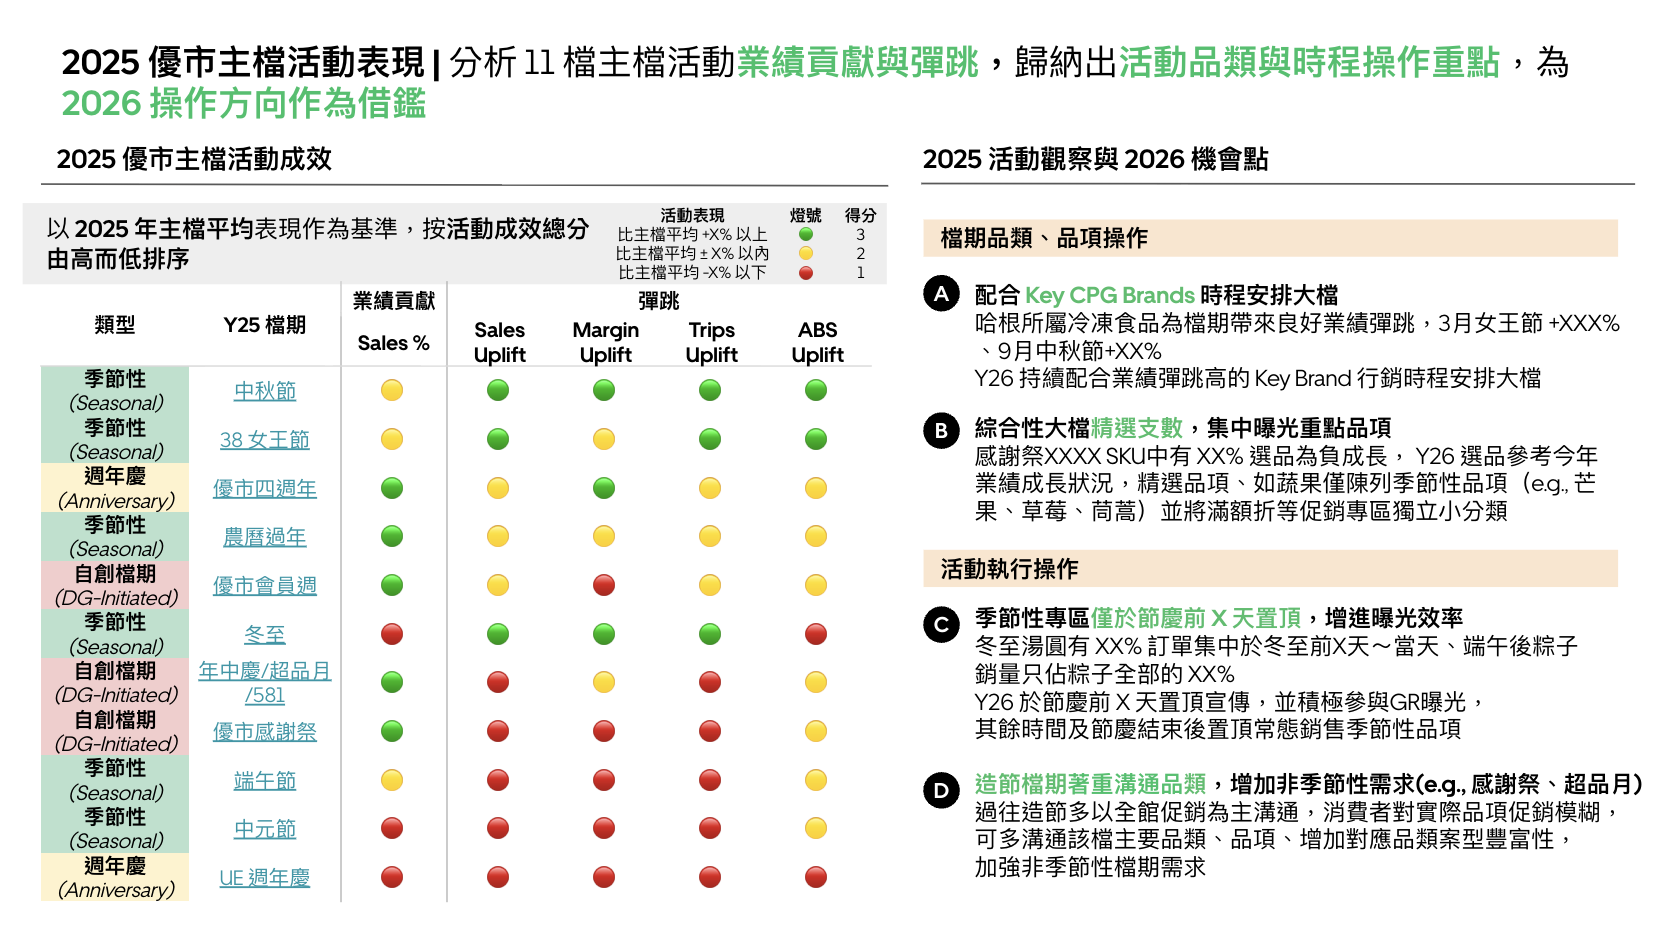
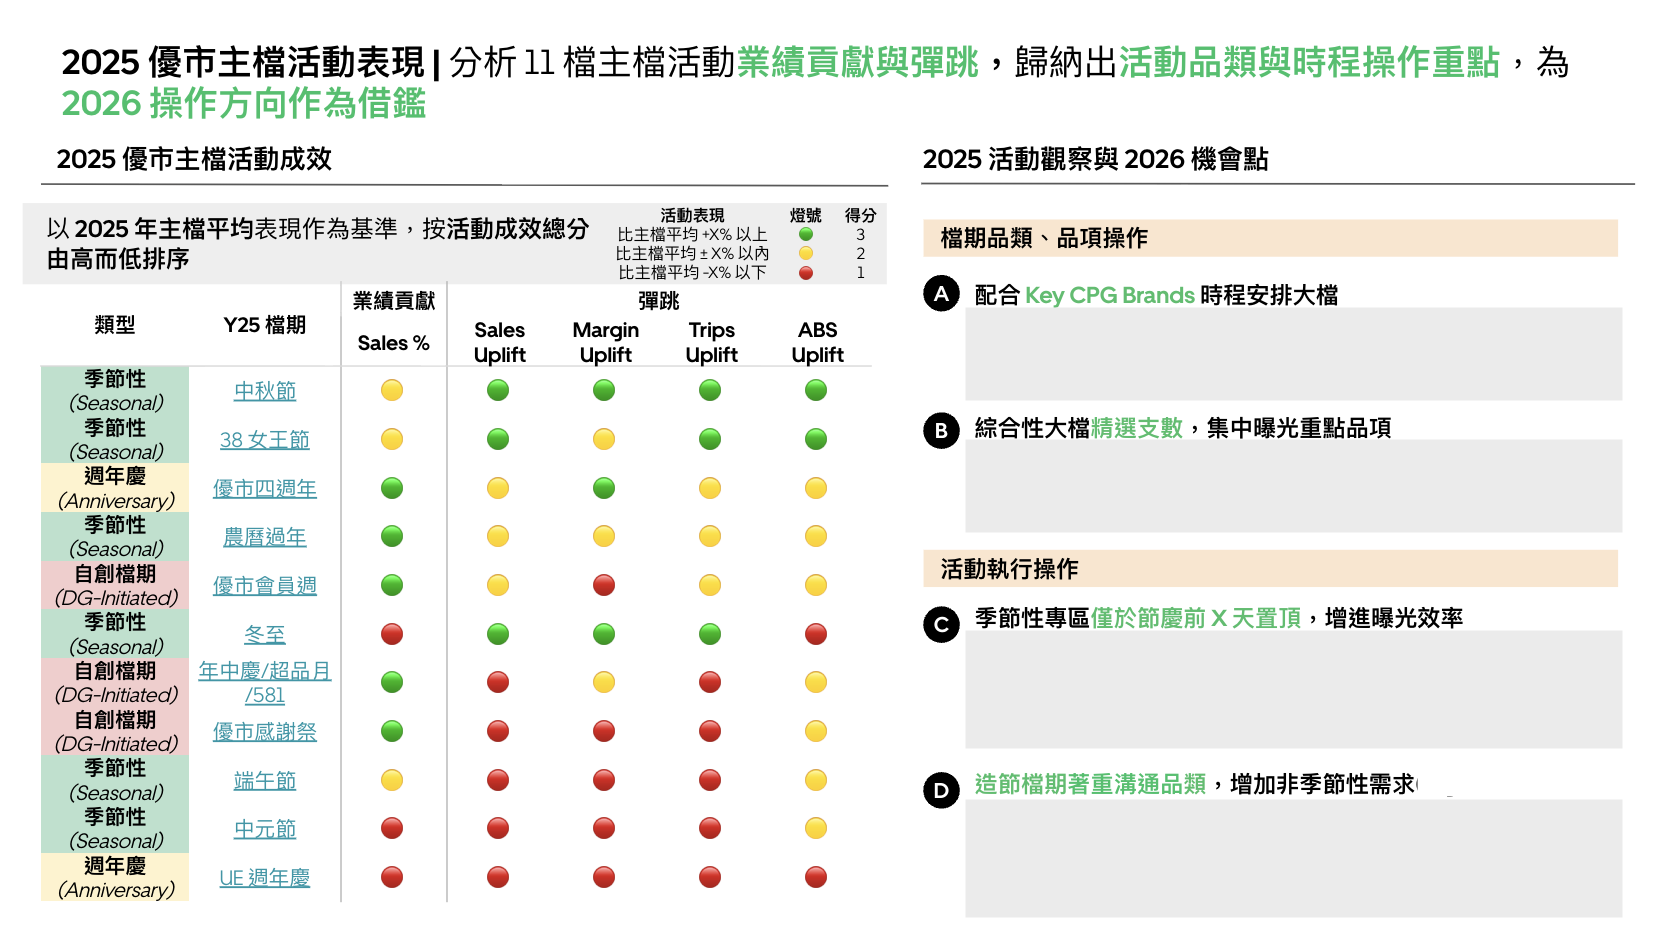
Add Laurier and Seed Project stories and refine portfolio layout

diff --git a/src/components/PortfolioPages.jsx b/src/components/PortfolioPages.jsx
@@ -44,6 +44,22 @@ const WORK = [
       "As a Jellycat fan myself, I posted “What! You can buy Jellycat on Uber Eats!” on Threads to promote the campaign. The post reached 500K views within two days—and the Jellycat inventory sold out on the same day I posted it.",
     ], summary: 'Turned an unexpected product range into a gifting campaign—earning 500K views and selling out Jellycat in one day.', media: Array.from({ length: 5 }, (_, i) => `/portfolio/work/campaign-${i + 1}.jpg`), portrait: true,
   },
+  {
+    number: '04', eyebrow: 'KAO · Laurier', title: 'CPG Digital Marketing', stat: '50%', statLabel: 'of the projected time to reach target market share',
+    paragraphs: [
+      'Executed a digital go-to-market strategy for a new feminine care product, achieving target market share in half the projected time through precise consumer positioning and an integrated media strategy.',
+    ], summary: 'Reached target market share in half the projected time.',
+    media: ['laurier-1.png', 'laurier-2.jpg', 'laurier-3.png', 'laurier-4.jpg', 'laurier-5.jpg', 'laurier-6.jpg', 'laurier-7.jpg'].map((file) => `/portfolio/work/${file}`),
+    mediaNotes: [
+      'New Product Launch - Feather like sanitary pad - Influencer',
+      'New Product Launch - Feather like sanitary pad - Influencer',
+      'Night sanitary pad - Digital Marketing strategy',
+      "Kanahei's small animals special design sanitary pad - kanahei's fans posts",
+      "Kanahei's small animals special design sanitary pad - offer ads",
+      'Double 11 - sanitary pad discount',
+      'Cool sanitary pad - social media post',
+    ].map((title) => ({ title })),
+  },
 ]
 
 const ACTIVITY_ITEMS = [
@@ -144,11 +160,22 @@ export function WorkPage() {
     </section>
 
     <ProjectRail title="Creating Impact at Work" subtitle="Tap a project to see the full story" items={WORK} onSelect={setSelected} />
-    <ProjectRail title="Exploring Opportunities at School" subtitle="More stories coming soon" items={[
-      { number: '01', title: 'University Project', eyebrow: 'Exploration · Collaboration' },
-      { number: '02', title: 'Campus Experience', eyebrow: 'Leadership · Community' },
-      { number: '03', title: 'The Next Opportunity', eyebrow: 'Coming soon' },
-    ]} placeholder />
+    <ProjectRail title="Exploring Opportunities at School" subtitle="Tap a project to see the full story" items={[
+      {
+        number: '01', title: 'NTU Seed Project - Volunteer English Teacher', eyebrow: 'Volunteering · Education',
+        stat: '6 hrs', statLabel: 'per week for 2 semesters',
+        summary: 'Committed 6 hours per week for 2 semesters to supporting underprivileged high school seniors.',
+        paragraphs: ['Served as a volunteer English tutor for underprivileged high school seniors. Recognizing my own educational privilege, I committed six hours per week for two semesters to answering questions, reviewing essays, and ensuring that marginalized students—who often traveled for hours to reach the venue—received critical academic support before their college entrance exams.'],
+        media: ['seed-project-1.jpg', 'seed-project-2.jpg', 'seed-project-3.png', 'seed-project-4.png'].map((file) => `/portfolio/school/${file}`),
+        links: [
+          { label: 'News Report · ETtoday', href: 'https://www.ettoday.net/news/20190626/1475876.htm' },
+          { label: 'Facebook', href: 'https://www.facebook.com/ntututorteam/?locale=zh_TW' },
+          { label: 'Instagram', href: 'https://www.instagram.com/ntututorteam/' },
+        ],
+      },
+      { number: '02', title: 'Campus Experience', eyebrow: 'Leadership · Community', placeholder: true },
+      { number: '03', title: 'The Next Opportunity', eyebrow: 'Coming soon', placeholder: true },
+    ]} onSelect={setSelected} />
 
     {selected && <ProjectOverlay item={selected} onClose={() => setSelected(null)} />}
     <PortfolioFooter />
@@ -167,10 +194,11 @@ function JourneyStop({ stop }) {
     : <button className={`journey-stop ${expanded ? 'is-expanded' : ''}`} onClick={() => setExpanded((value) => !value)} aria-expanded={expanded}>{content}</button>
 }
 
-function ProjectRail({ title, subtitle, items, onSelect, placeholder = false }) {
+function ProjectRail({ title, subtitle, items, onSelect }) {
   return <section className="project-rail-section">
     {(title || subtitle) && <div className="rail-heading">{title && <h2>{title}</h2>}{subtitle && <p>{subtitle}</p>}</div>}
     <div className="project-rail">{items.map((item) => {
+      const placeholder = item.placeholder
       const cover = item.sources?.find((source) => source.type === 'image')?.src || item.media?.[0] || item.images?.[0] || item.extraMedia?.[0]
       const content = <><div className={`rail-cover ${placeholder ? 'is-placeholder' : ''}`}>{cover ? <img src={cover} alt="" /> : <span>{item.number}</span>}</div><div className="rail-copy"><span>{item.eyebrow || item.tag}</span><h3>{item.title}</h3>{item.stat && <div className="tile-stat"><div><strong>{item.stat}</strong><span>{item.statLabel}</span></div>{item.statSecondary && <div><strong>{item.statSecondary}</strong><span>{item.statSecondaryLabel}</span></div>}</div>}<p>{placeholder ? 'Details to be added.' : (item.summary || item.paragraphs[0])}</p>{!placeholder && <b>View project <span>↗</span></b>}</div></>
       return placeholder ? <article className="project-tile is-coming" key={item.number}>{content}</article> : <button className="project-tile" onClick={() => onSelect(item)} key={item.number}>{content}</button>
@@ -192,7 +220,7 @@ function ProjectOverlay({ item, onClose }) {
         <div className="gallery-thumbs">{sources.map((source, i) => <button key={source.src} className={active === i ? 'is-active' : ''} onClick={() => setActive(i)} aria-label={`Show project visual ${i + 1}`}>{source.type === 'video' ? <video src={source.src} muted preload="metadata" /> : <img src={source.src} alt="" />}{source.type === 'video' && <span>▶</span>}</button>)}</div>
         <div className="gallery-main">{current?.type === 'video' ? <video key={current.src} src={current.src} controls muted playsInline autoPlay aria-label={`${item.title} screen recording`} /> : <img src={current?.src} alt={`${item.title} selected project visual`} />}</div>
       </div>}
-      <div className="expanded-copy"><div className="project-rule"><span>{item.number}</span><span>{item.eyebrow || item.tag}</span></div><h2 id="expanded-project-title">{item.title}</h2>{item.stat && <div className="project-stat"><div><strong>{item.stat}</strong><span>{item.statLabel}</span></div>{item.statSecondary && <div><strong>{item.statSecondary}</strong><span>{item.statSecondaryLabel}</span></div>}</div>}{item.mediaNotes?.[active] && <div className="media-note"><strong>{item.mediaNotes[active].title}</strong>{item.mediaNotes[active].text && <p>{item.mediaNotes[active].text}</p>}</div>}{item.paragraphs.map((p) => <p key={p}>{p}</p>)}</div>
+      <div className="expanded-copy"><div className="project-rule"><span>{item.number}</span><span>{item.eyebrow || item.tag}</span></div><h2 id="expanded-project-title">{item.title}</h2>{item.stat && <div className="project-stat"><div><strong>{item.stat}</strong><span>{item.statLabel}</span></div>{item.statSecondary && <div><strong>{item.statSecondary}</strong><span>{item.statSecondaryLabel}</span></div>}</div>}{item.mediaNotes?.[active] && <div className="media-note"><strong>{item.mediaNotes[active].title}</strong>{item.mediaNotes[active].text && <p>{item.mediaNotes[active].text}</p>}</div>}{item.paragraphs.map((p) => <p key={p}>{p}</p>)}{item.links?.length > 0 && <nav className="project-links" aria-label="Project links">{item.links.map((link) => <a key={link.href} href={link.href} target="_blank" rel="noopener noreferrer">{link.label} <span aria-hidden="true">↗</span></a>)}</nav>}</div>
     </article>
   </div>
 }

diff --git a/src/index.css b/src/index.css
@@ -276,9 +276,9 @@ body {
 .journey-track::before { content: ''; position: absolute; left: -2rem; right: 0; top: 53%; height: 18px; background: #d9cfb9; z-index: -1; }
 .journey-track::after { content: ''; position: absolute; right: -1.85rem; top: calc(53% - 14px); border-left: 30px solid #d9cfb9; border-top: 23px solid transparent; border-bottom: 23px solid transparent; z-index: -1; }
 .journey-period { min-height: 2.8rem; display: flex; align-items: center; gap: .5rem; margin: 0 0 .65rem .7rem; font-size: clamp(1rem, 1.8vw, 1.35rem); font-weight: 700; }
-.journey-card { height: 205px; display: grid; grid-template-columns: .9fr 1.1fr; overflow: hidden; background: #f5ead5; border: 1px solid var(--color-line); border-radius: 22px; box-shadow: 0 10px 20px -15px rgba(58,50,44,.7); }
-.journey-name { padding: 1.35rem; display: flex; align-items: center; font-size: 1rem; font-weight: 700; line-height: 1.2; }
-.journey-card img { width: 100%; height: 100%; object-fit: cover; }
+.journey-card { height: 205px; display: grid; grid-template-columns: .9fr 1.1fr; grid-template-rows: minmax(0, 1fr); overflow: hidden; background: #f5ead5; border: 1px solid var(--color-line); border-radius: 22px; box-shadow: 0 10px 20px -15px rgba(58,50,44,.7); }
+.journey-name { min-height: 0; padding: 1.35rem; display: flex; align-items: center; justify-content: center; text-align: center; font-size: 1rem; font-weight: 700; line-height: 1.2; }
+.journey-card img { min-height: 0; width: 100%; height: 100%; object-fit: cover; }
 .journey-stop.is-future .journey-card { display: flex; align-items: center; }
 .journey-stop.is-future .journey-name { width: 42%; }
 .journey-question { padding: 1rem; color: var(--color-ink-soft); font-family: Georgia, serif; font-style: italic; line-height: 1.45; }
@@ -599,3 +599,12 @@ button.journey-stop {
   .rail-copy b { padding-top: .8rem; }
   .project-tile.is-coming { min-height: 145px; }
 }
+
+.project-links { display: flex; flex-wrap: wrap; gap: .8rem 1.25rem; margin-top: 1.5rem; }
+.project-links a { color: var(--color-vermilion); text-decoration: underline; text-underline-offset: .2em; font-size: .9rem; }
+
+.tile-stat > div:only-child,
+.project-stat > div:only-child { align-items: center; }
+
+.tile-stat strong,
+.project-stat strong { white-space: nowrap; flex-shrink: 0; }
